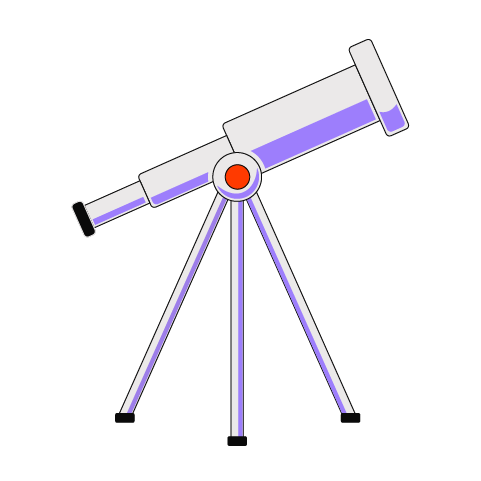
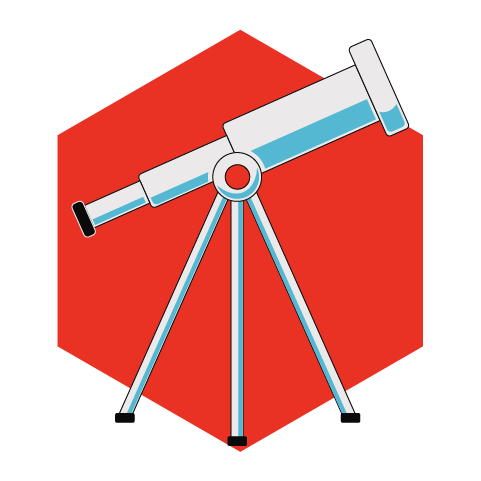
Cambio de paleta

diff --git a/src/styles/global.css b/src/styles/global.css
@@ -49,20 +49,20 @@
     --card-foreground: oklch(0.145 0 0);
     --popover: oklch(1 0 0);
     --popover-foreground: oklch(0.145 0 0);
-    --primary: oklch(0.6512 0.2367 33.58);
+    --primary: oklch(0.6082 0.2198 29.65);
     --primary-foreground: oklch(0.985 0 0);
     --secondary: oklch(0.97 0 0);
     --secondary-foreground: oklch(0.205 0 0);
     --muted: oklch(0.97 0 0);
     --muted-foreground: oklch(0.556 0 0);
-    --accent: oklch(0.6791 0.1804 292.24);
+    --accent: oklch(0.7336 0.1003 218.29);
     --accent-foreground: oklch(0.205 0 0);
     --destructive: oklch(0.577 0.245 27.325);
     --border: oklch(0.922 0 0);
     --input: oklch(0.922 0 0);
     --ring: oklch(0.708 0 0);
-    --chart-1: oklch(0.6512 0.2367 33.58);
-    --chart-2: oklch(0.6791 0.1804 292.24);
+    --chart-1: oklch(0.6082 0.2198 29.65);
+    --chart-2: oklch(0.7336 0.1003 218.29);
     --chart-3: oklch(0.4757 0.225 267.18);
     --chart-4: oklch(0.7354 0.1537 70.83);
     --chart-5: oklch(0.7426 0.263 328.83);
@@ -83,26 +83,26 @@
     --card-foreground: oklch(0.985 0 0);
     --popover: oklch(0.205 0 0);
     --popover-foreground: oklch(0.985 0 0);
-    --primary: oklch(0.6512 0.2367 33.58);
+    --primary: oklch(0.6082 0.2198 29.65);
     --primary-foreground: oklch(0.985 0 0);
     --secondary: oklch(0.269 0 0);
     --secondary-foreground: oklch(0.985 0 0);
     --muted: oklch(0.269 0 0);
     --muted-foreground: oklch(0.708 0 0);
-    --accent: oklch(0.6791 0.1804 292.24);
+    --accent: oklch(0.7336 0.1003 218.29);
     --accent-foreground: oklch(0.985 0 0);
     --destructive: oklch(0.704 0.191 22.216);
     --border: oklch(0.5 0 0 / 10%);
     --input: oklch(0.5 0 0 / 15%);
     --ring: oklch(0.556 0 0);
-    --chart-1: oklch(0.6512 0.2367 33.58);
-    --chart-2: oklch(0.6791 0.1804 292.24);
+    --chart-1: oklch(0.6082 0.2198 29.65);
+    --chart-2: oklch(0.7336 0.1003 218.29);
     --chart-3: oklch(0.8491 0.1085 209.5);
     --chart-4: oklch(0.958 0.1437 108.83);
     --chart-5: oklch(0.7561 0.1956 321.5);
     --sidebar: oklch(0.205 0 0);
     --sidebar-foreground: oklch(0.985 0 0);
-    --sidebar-primary: oklch(0.6512 0.2367 33.58);
+    --sidebar-primary: oklch(0.6082 0.2198 29.65);
     --sidebar-primary-foreground: oklch(0.985 0 0);
     --sidebar-accent: oklch(0.269 0 0);
     --sidebar-accent-foreground: oklch(0.985 0 0);
